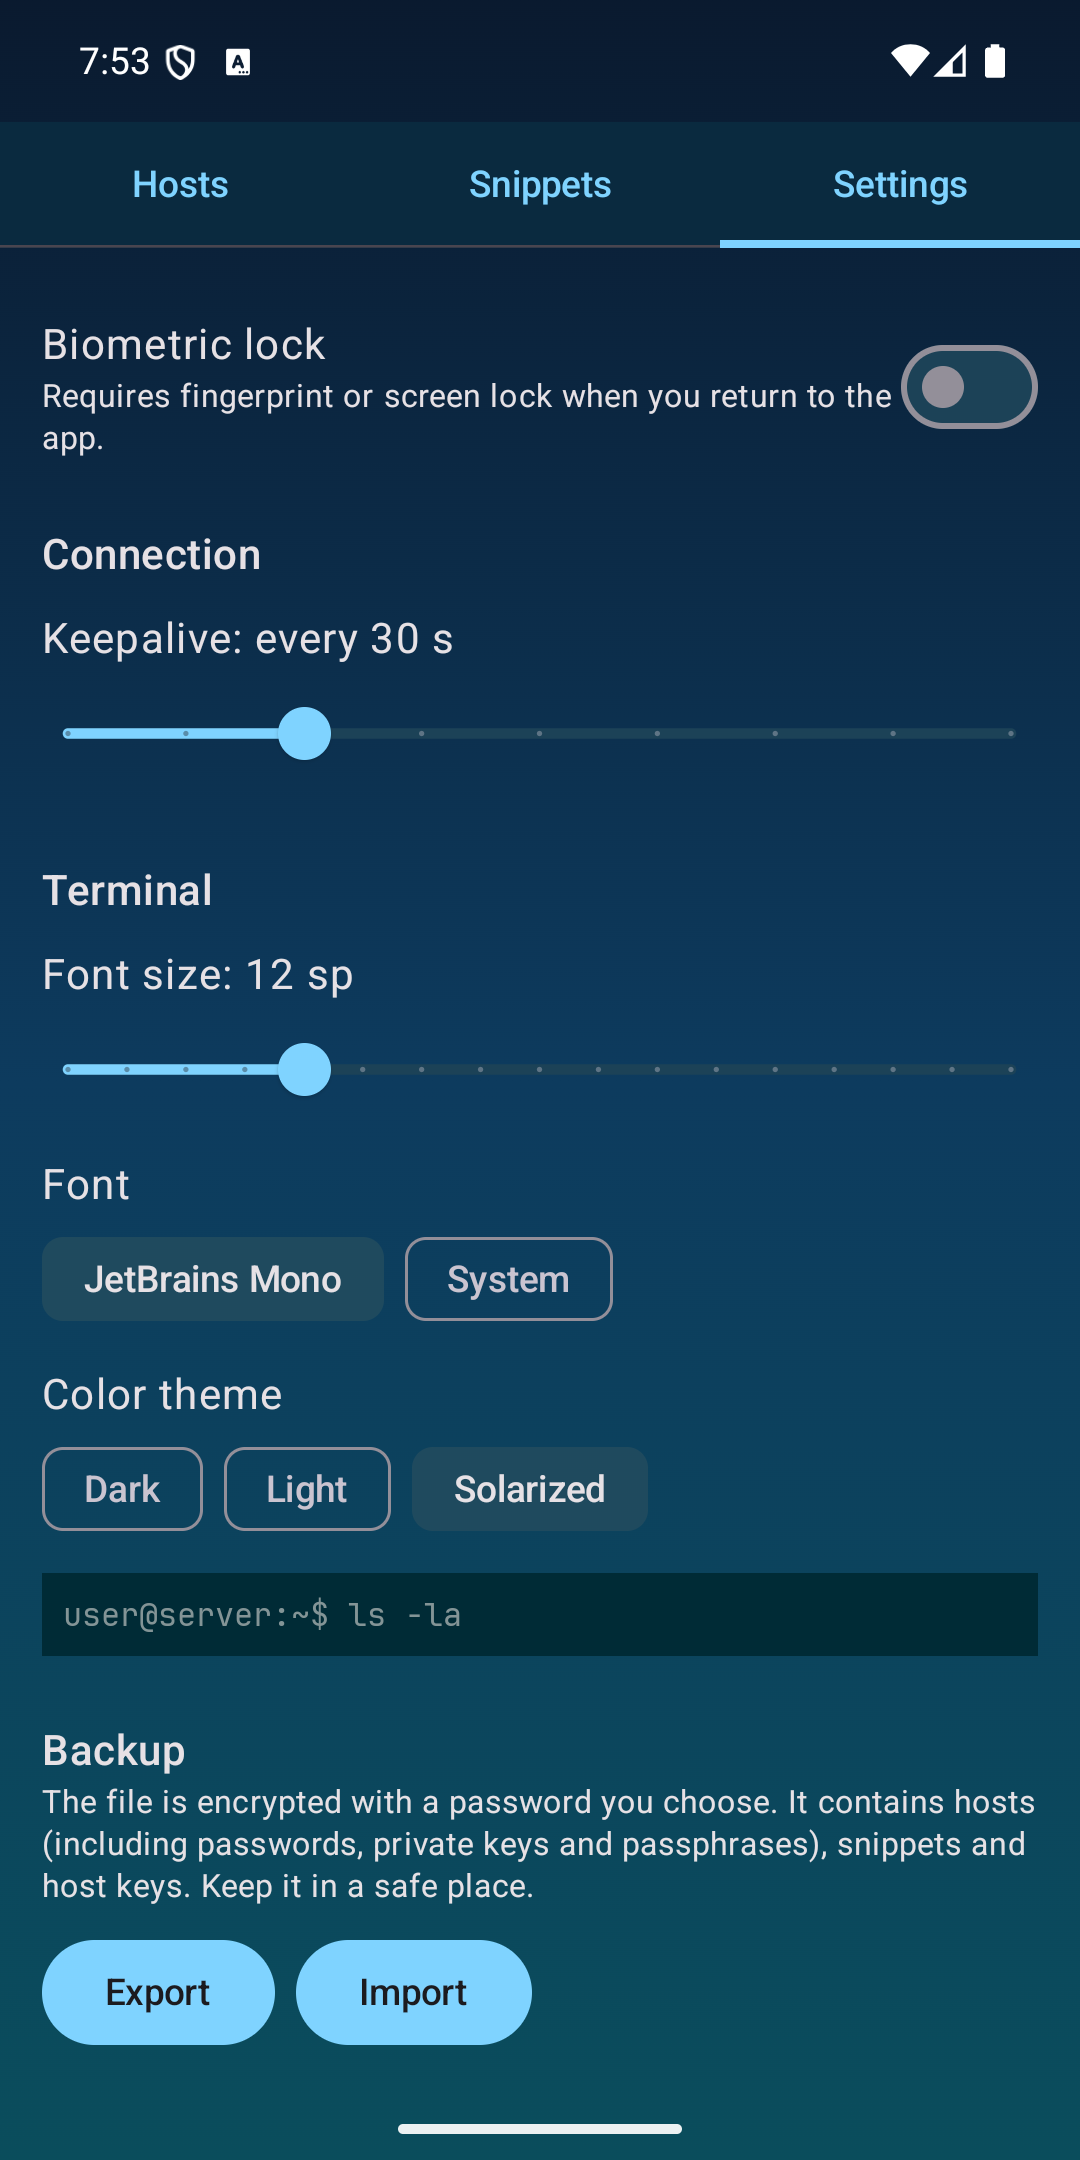
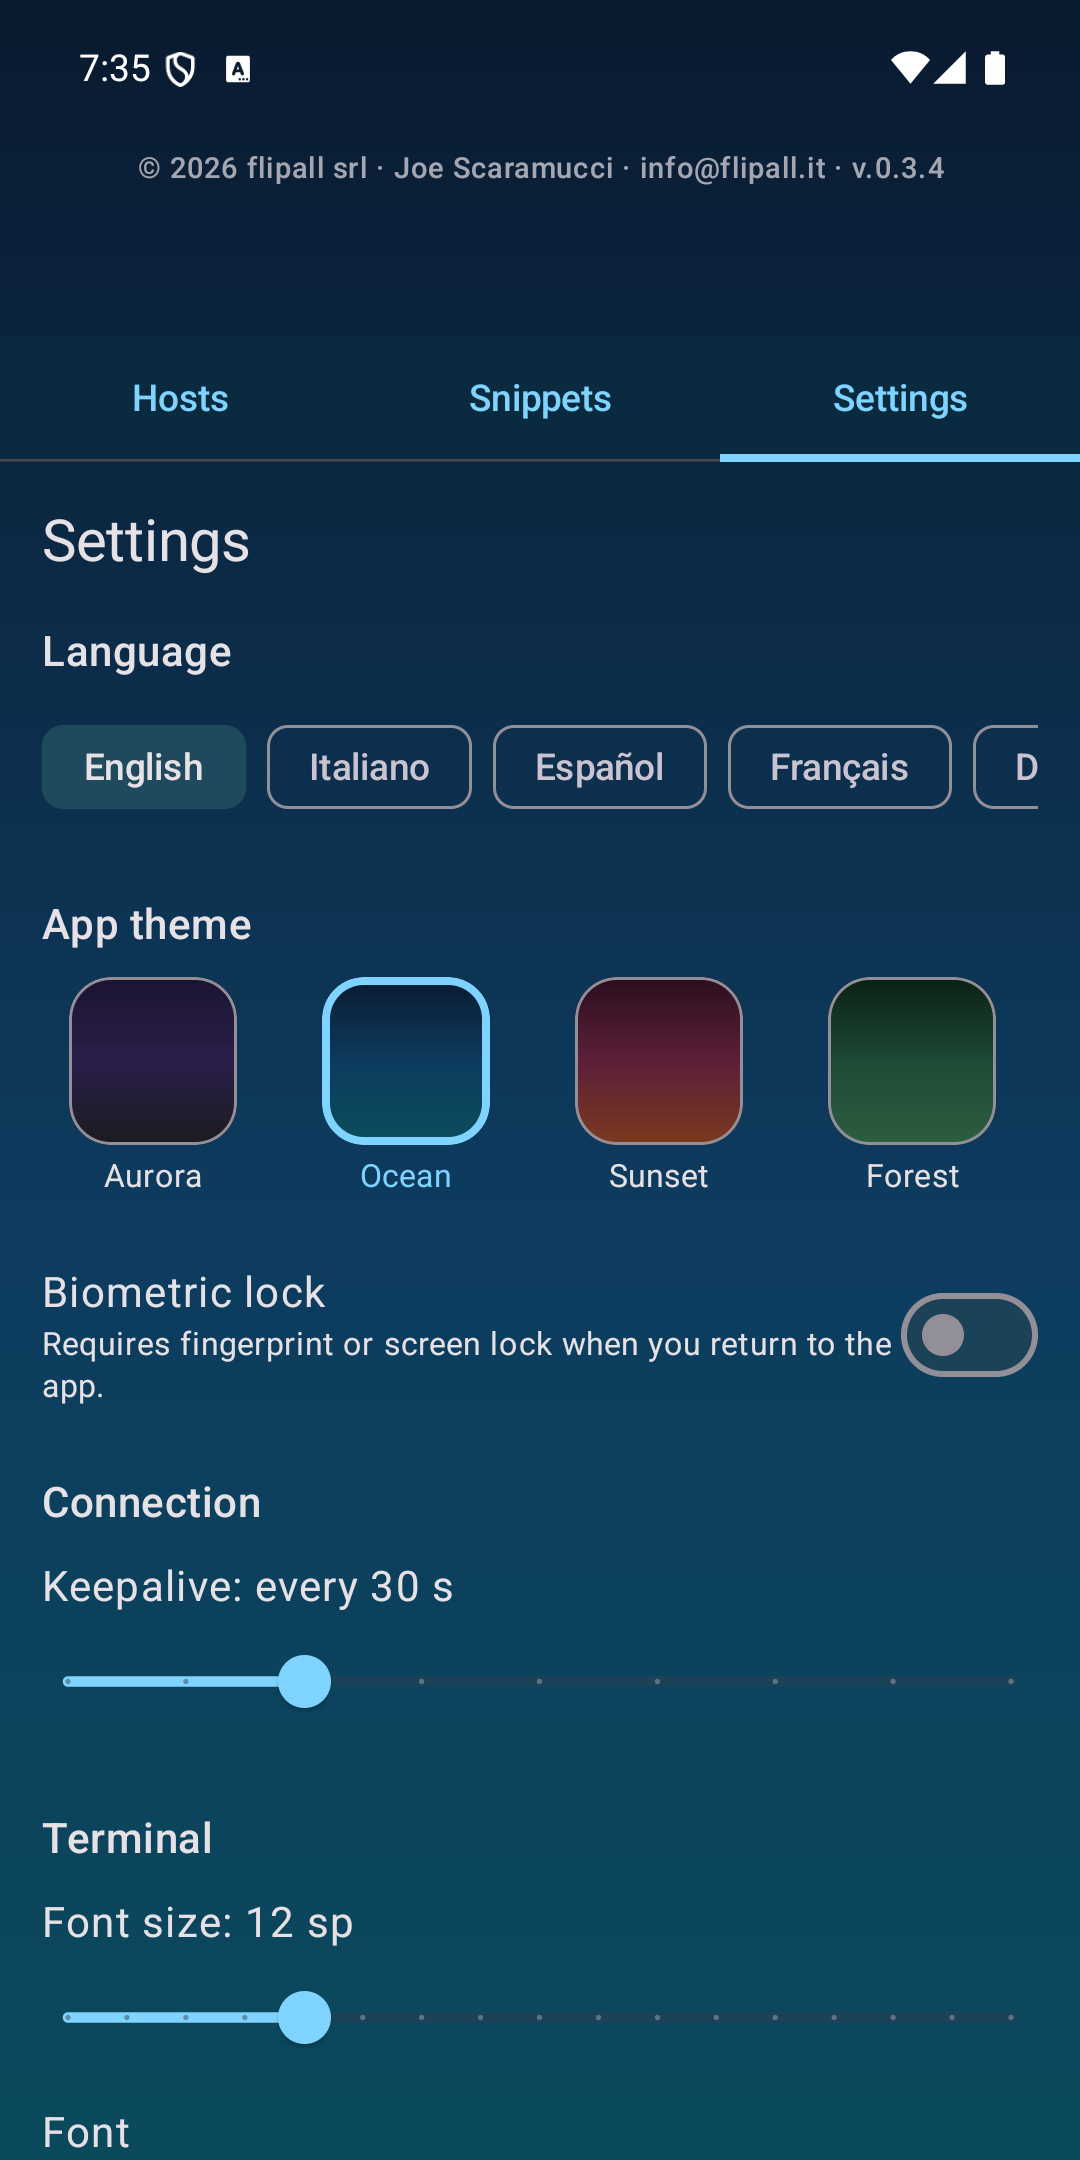
Update store screenshots and bump version to 0.3.4
Replace the nine Play Store phone screenshots with captures of the current features (SFTP browser, host key verification, new host form, snippets). Bump the app version to 0.3.4 (versionCode 7) in the Android app, desktop installer and README; this also resolves the Windows MSI install error 1638 when upgrading from 0.3.3.

diff --git a/app/src/main/java/com/example/sshsnippets/Credits.kt b/app/src/main/java/com/example/sshsnippets/Credits.kt
@@ -12,7 +12,7 @@ import androidx.compose.ui.unit.dp
 import java.util.Calendar
 
 // Keep in sync with versionName in app/build.gradle.kts and packageVersion in desktop/build.gradle.kts.
-const val APP_VERSION = "0.3.3"
+const val APP_VERSION = "0.3.4"
 
 @Composable
 fun CreditsBar(modifier: Modifier = Modifier) {

diff --git a/README.md b/README.md
@@ -6,14 +6,14 @@ Client SSH e SFTP per Android e Windows con gestione di snippet di comandi riuti
 
 ## Download
 
-Ultima versione: **0.3.3**, nella [pagina delle release](https://github.com/joescaramucci/snipssh/releases/tag/v0.3.3).
+Ultima versione: **0.3.4**, nella [pagina delle release](https://github.com/joescaramucci/snipssh/releases/tag/v0.3.4).
 
 | File | Per |
 |---|---|
-| `SnipSSH-0.3.3-android.apk` | Android 8.0 o successivo (installazione da file, consentire l'origine sconosciuta) |
-| `SnipSSH-0.3.3-windows-setup.exe` | Windows 10/11 64 bit, installazione per utente |
-| `SnipSSH-0.3.3-windows.msi` | Windows 10/11 64 bit, pacchetto MSI per utente |
-| `SnipSSH-0.3.3-windows-portable.zip` | Windows 10/11 64 bit, nessuna installazione: estrai e avvia `SnipSSH.exe` |
+| `SnipSSH-0.3.4-android.apk` | Android 8.0 o successivo (installazione da file, consentire l'origine sconosciuta) |
+| `SnipSSH-0.3.4-windows-setup.exe` | Windows 10/11 64 bit, installazione per utente |
+| `SnipSSH-0.3.4-windows.msi` | Windows 10/11 64 bit, pacchetto MSI per utente |
+| `SnipSSH-0.3.4-windows-portable.zip` | Windows 10/11 64 bit, nessuna installazione: estrai e avvia `SnipSSH.exe` |
 
 Ogni file ha il proprio SHA-256 in `SHA256SUMS.txt`. Gli eseguibili Windows non sono firmati, quindi SmartScreen può mostrare un avviso alla prima esecuzione.
 
@@ -90,7 +90,7 @@ Traduzioni, icone dei loghi e font vengono copiate dalle risorse Android a ogni 
 
 | Voce | Valore |
 |---|---|
-| Versione | 0.3.3 (`versionCode` 6) |
+| Versione | 0.3.4 (`versionCode` 7) |
 | Android | minSdk 26 (Android 8.0), targetSdk 36, compileSdk 36 |
 | Windows | Windows 10/11 a 64 bit, Compose Desktop 1.6.11, JDK 17; exe portabile, MSI e setup EXE (non firmati, per utente) |
 | Moduli Gradle | `:core` (Kotlin/JVM, logica condivisa), `:app` (Android), `:desktop` (Windows) |
